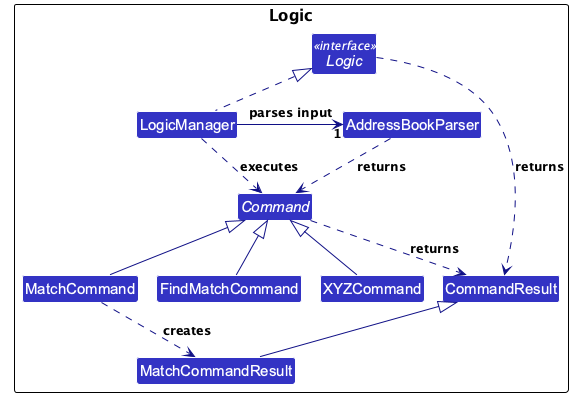
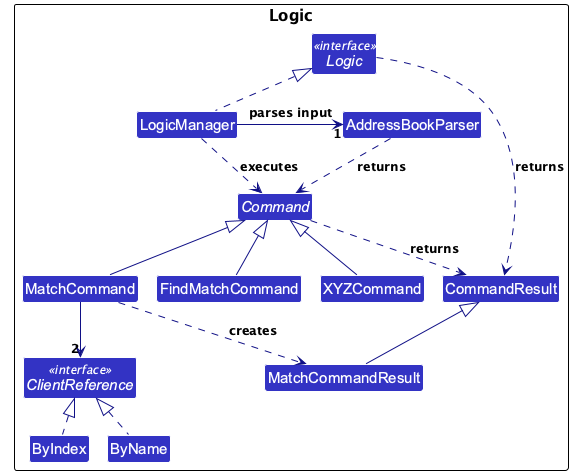
Show UiPart, PersonCard and ClientReference in the DG
The UI diagram leaves out the UiPart class that the visible parts
extend and the PersonCard shown for each client. The Logic diagram
leaves out the two ClientReferences that MatchCommand resolves.

Let's add them to the diagrams and update the text below each one.

diff --git a/docs/DeveloperGuide.md b/docs/DeveloperGuide.md
@@ -88,9 +88,9 @@ The **API** of this component is specified in [`Ui.java`](https://github.com/AY2
 
 [![Structure of the UI Component](images/UiClassDiagram.png)](images/UiClassDiagram.png)
 
-This overview shows the main UI parts and their connections to `Logic`. UI inheritance, the command
+This overview shows the main UI parts, the `UiPart` class they extend and their connections to `Logic`. The command
 callback and list-cell implementation details are omitted for readability. `MatchResultView` extends
-JavaFX `ScrollPane`; the other visible UI parts shown extend `UiPart`. Click the diagram for a full-size view.
+JavaFX `ScrollPane` rather than `UiPart`. Click the diagram for a full-size view.
 
 The UI consists of a `MainWindow` and its parts, such as `CommandBox`, `ResultDisplay`, `PersonListPanel`, and `StatusBarFooter`. All of these, including `MainWindow`, inherit from the abstract `UiPart` class, which captures common behavior among classes that represent visible GUI parts.
 
@@ -111,7 +111,8 @@ Here's a (partial) class diagram of the `Logic` component:
 
 [![Logic classes, including pairwise match results and candidate-search commands](images/LogicClassDiagram.png)](images/LogicClassDiagram.png)
 
-The overview omits command-specific parsers and dependencies on Model and Storage. Click for a full-size view.
+The overview omits command-specific parsers and dependencies on Model and Storage. `MatchCommand` holds two
+`ClientReference`s, each a `ByIndex` or a `ByName`. Click for a full-size view.
 
 The sequence diagram below illustrates the interactions within the `Logic` component, taking `execute("delete 1")` API call as an example.
 
